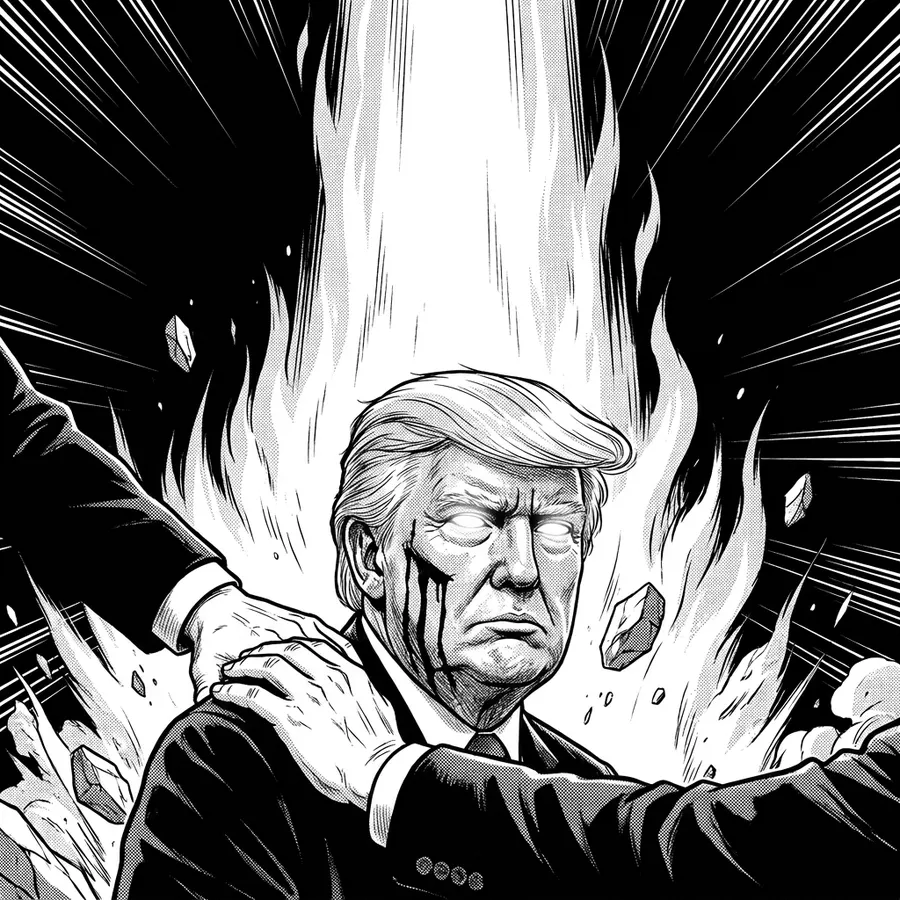
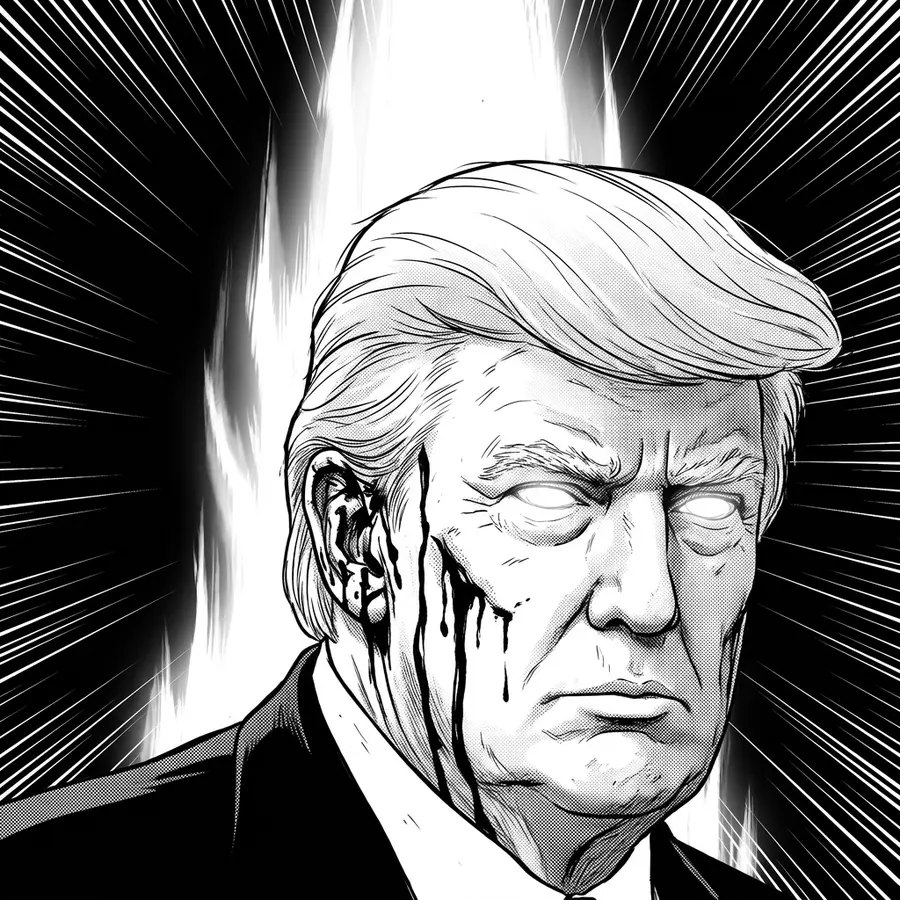
The Loops: Butler panel with a bloody ear, no agents
Claude-Session: https://claude.ai/code/session_018koZjdN48vHGW3o5pkgtAr

diff --git a/loop-explainer/index.html b/loop-explainer/index.html
@@ -104,7 +104,7 @@ const CONTENT = {
   ],
   alt: ['Manga drawing: Trump at a lectern, a faint aura around him.',
         'Manga drawing: Trump powering up, hair lifting, flames around him.',
-        'Manga drawing: Trump at Butler, blood running from his right ear, agents gripping his shoulders, eyes glowing white, a column of light behind him.',
+        'Manga drawing: Trump at Butler, alone, blood running from his right ear down his cheek, eyes glowing white, a column of light behind him.',
         'Manga drawing: Trump taking the oath of office inside a tower of light.']
 };
 const DAYS = 690;
